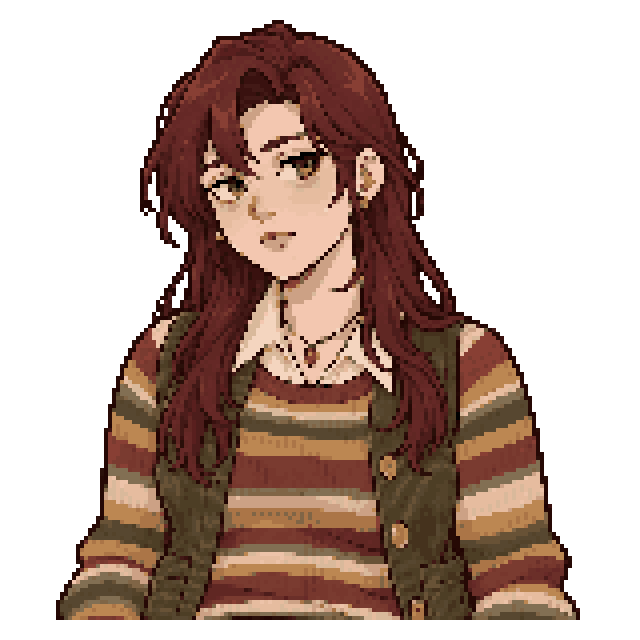
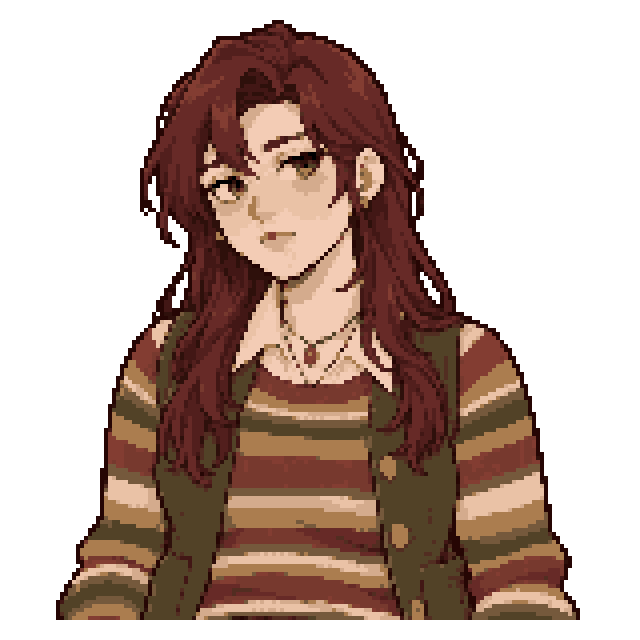
Simplify retro sprite to 16-color pixel shading

diff --git a/tools/build_character.py b/tools/build_character.py
@@ -1,13 +1,14 @@
 """Normalize generated waist-up characters onto the shared 160x160 pixel canvas."""
 import argparse
 from pathlib import Path
-from PIL import Image
+from PIL import Image, ImageFilter
 
 parser = argparse.ArgumentParser(description=__doc__)
 parser.add_argument('source', type=Path)
 parser.add_argument('output', type=Path)
 parser.add_argument('--preview', type=Path)
 parser.add_argument('--crop-bottom', type=int, help='Crop source at this waist-line pixel before resizing')
+parser.add_argument('--pixel-clusters', action='store_true', help='Simplify texture and use 16 flat colors on the native 160x160 canvas')
 args = parser.parse_args()
 source = Image.open(args.source).convert('RGBA')
 if args.crop_bottom is not None:
@@ -21,12 +22,15 @@ bounds = alpha.getbbox()
 if not bounds:
     raise ValueError('Source contains no visible character')
 subject = source.crop(bounds)
-scale = min(150 / subject.width, 150 / subject.height)
+if args.pixel_clusters:
+    subject = subject.filter(ImageFilter.MedianFilter(7))
+extent = 150
+scale = min(extent / subject.width, extent / subject.height)
 subject = subject.resize((max(1, round(subject.width * scale)),
                           max(1, round(subject.height * scale))), Image.Resampling.NEAREST)
 mask = subject.getchannel('A')
 # Compact cel-shading palette, no dithering or smoothing.
-subject = subject.convert('RGB').quantize(colors=32, dither=Image.Dither.NONE).convert('RGBA')
+subject = subject.convert('RGB').quantize(colors=16 if args.pixel_clusters else 32, dither=Image.Dither.NONE).convert('RGBA')
 subject.putalpha(mask)
 canvas = Image.new('RGBA', (160, 160))
 canvas.alpha_composite(subject, ((160 - subject.width) // 2, 155 - subject.height))

diff --git a/art_sources/characters/redhead_woman_retro.md b/art_sources/characters/redhead_woman_retro.md
@@ -2,7 +2,7 @@
 
 Current requested design: pale skin, slightly larger hazel eyes, subtly tired neutral expression, longer and less voluminous dark-red hair, fuller build. Cream collared blouse, striped sweater, and open olive vest create a layered retro outfit. Previous neutral design is retained separately for reference.
 
-Created with built-in imagegen on 2026-10-05, editing the preceding character illustration. Uses the unchanged `tools/build_character.py` pipeline: 160×160 transparent sprite, nearest-neighbor resampling, 32 colors, anchor (80, 155).
+Created with built-in imagegen on 2026-10-05, editing the preceding character illustration. Uses the `tools/build_character.py --pixel-clusters` pipeline: 160×160 transparent sprite, nearest-neighbor resampling, 16 flat colors with source texture cleanup, anchor (80, 155).
 
 - Original: `redhead_woman_retro_source.png`
 - Sprite: `../../assets/characters/redhead_woman_retro.png`
@@ -11,7 +11,7 @@ Created with built-in imagegen on 2026-10-05, editing the preceding character il
 The runtime sprite is cropped at source y=1080 (waist line), removing the lower torso/trousers before nearest-neighbor reduction. Regenerate:
 
 ```sh
-.venv/bin/python tools/build_character.py art_sources/characters/redhead_woman_retro_source.png assets/characters/redhead_woman_retro.png --crop-bottom 1080 --preview art_sources/characters/previews/redhead_woman_retro.png
+.venv/bin/python tools/build_character.py art_sources/characters/redhead_woman_retro_source.png assets/characters/redhead_woman_retro.png --crop-bottom 1080 --pixel-clusters --preview art_sources/characters/previews/redhead_woman_retro.png
 ```
 
 ## Prompt
